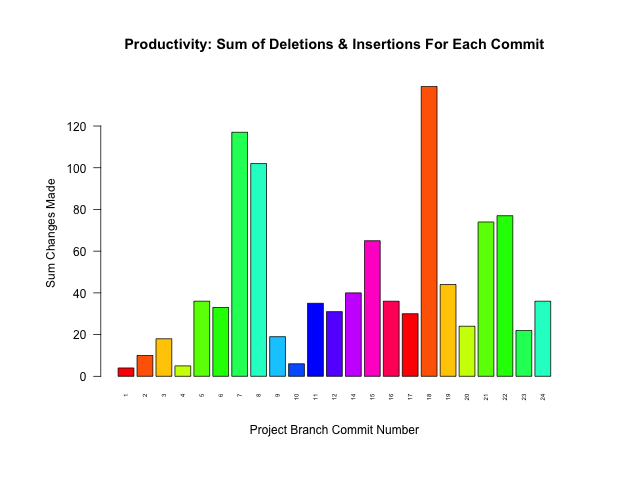
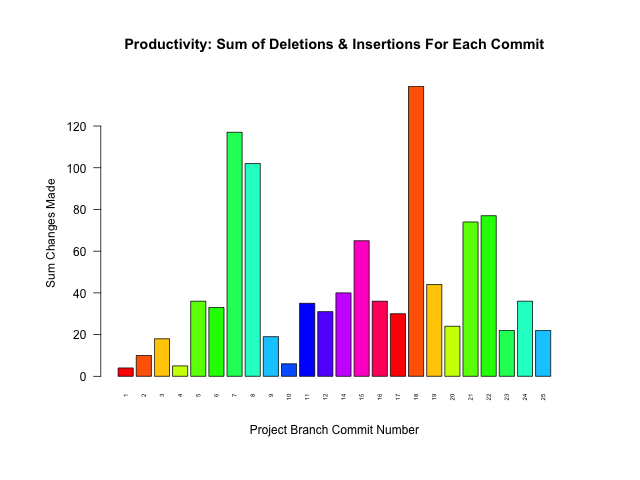
COMMIT #184

Changed region(s): [[0.1875, 0.1562, 0.875, 0.7812], [0.4375, 0.8125, 0.8125, 0.8438]]

diff --git a/README.md b/README.md
@@ -17,8 +17,8 @@ ProjectName::BranchName.data
 
 Project Name | Last Updated | # Commits | # Branches | Branches Merged
 :---|:---:|:---:|:---:|:---:
-[learn_some_C.Plus.Plus](https://github.com/pierremigeon/learn_some_C.Plus.Plus)                    |  2023-05-25  |  24   |  1  |  100%  (1/1)
-[commit_tracker](https://github.com/pierremigeon/commit_tracker)                                    |  2023-05-24  |  182  |  1  |  100%  (1/1)
+[learn_some_C.Plus.Plus](https://github.com/pierremigeon/learn_some_C.Plus.Plus)                    |  2023-05-26  |  25   |  1  |  100%  (1/1)
+[commit_tracker](https://github.com/pierremigeon/commit_tracker)                                    |  2023-05-25  |  183  |  1  |  100%  (1/1)
 [minishell](https://github.com/pierremigeon/minishell)                                              |  2023-05-20  |  78   |  8  |  88%   (7/8)
 [libft](https://github.com/pierremigeon/libft)                                                      |  2023-05-20  |  28   |  2  |  50%   (1/2)
 [FASTQ_examiner](https://github.com/pierremigeon/FASTQ_examiner)                                    |  2023-05-12  |  68   |  4  |  50%   (2/4)
